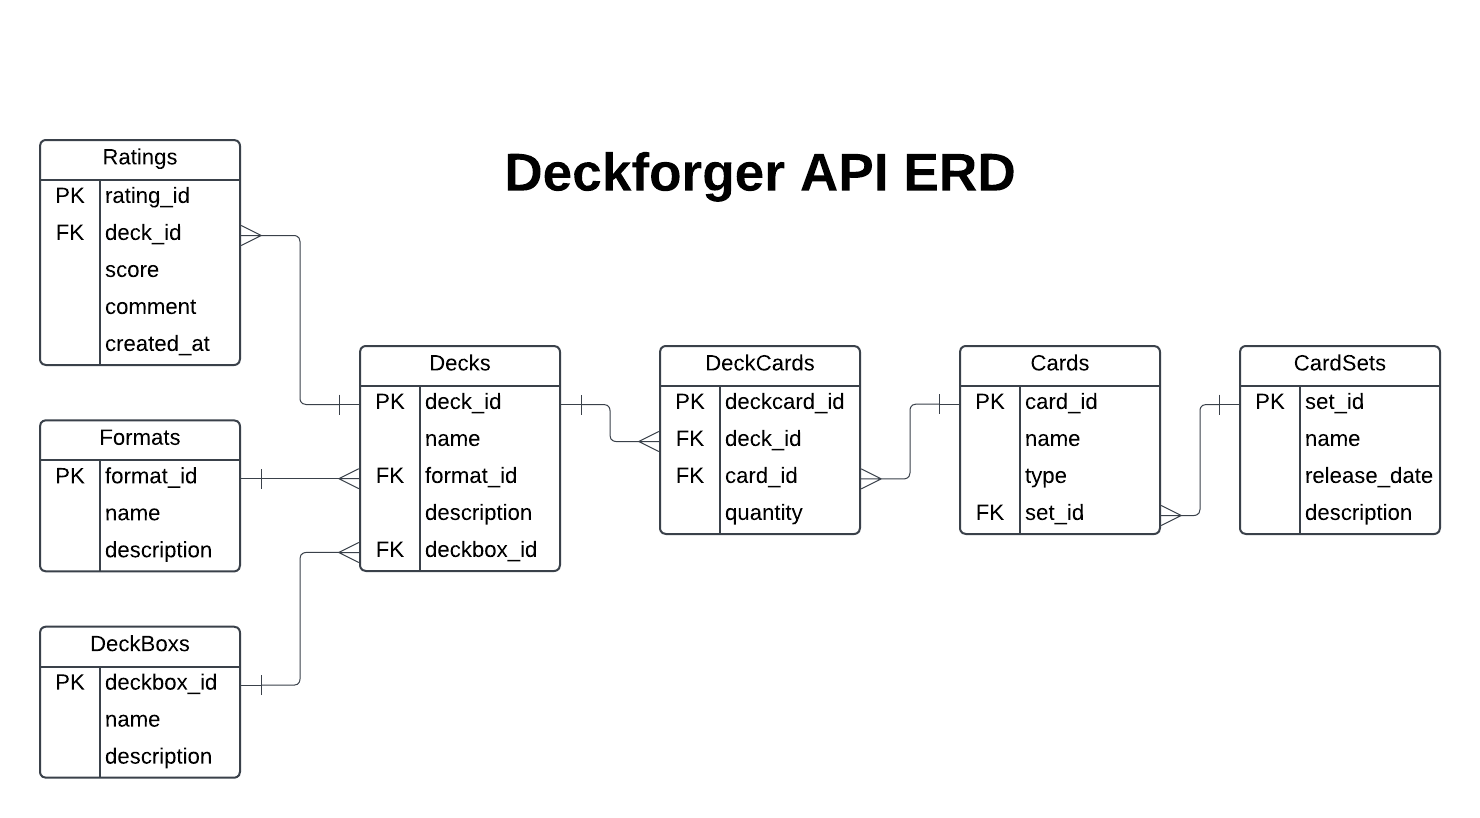
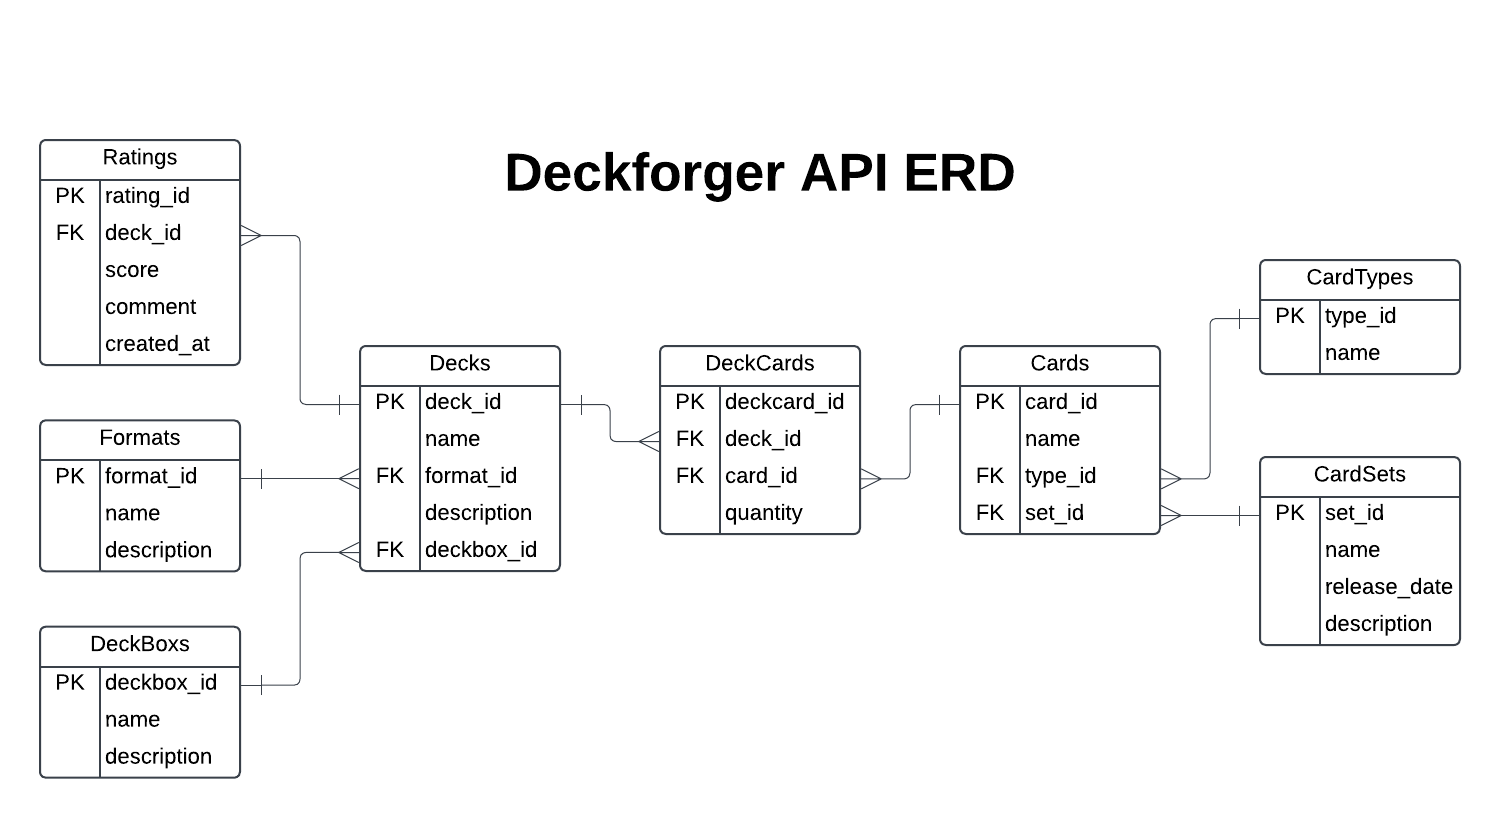
update commit

diff --git a/controllers/cardset_controller.py b/controllers/cardset_controller.py
@@ -8,10 +8,10 @@ from datetime import datetime
 # Local application imports
 from init import db
 from models.cardset import CardSet
-from schemas.cardset_schema import set_schema, sets_schema
+from schemas.cardset_schema import cardset_schema, cardsets_schema
 
 
-cardset_controller = Blueprint('set_controller', __name__)
+cardset_controller = Blueprint('cardsets', __name__, url_prefix='/cardsets')
 
 
 @cardset_controller.route('/', methods=['POST'])
@@ -44,7 +44,7 @@ def create_set():
     )
     db.session.add(new_set)
     db.session.commit()
-    return set_schema.jsonify(new_set), 201
+    return cardset_schema.jsonify(new_set), 201
 
 @validates('name')
 def validate_name(self, value):
@@ -61,33 +61,20 @@ def validate_release_date(self, value):
         raise ValidationError('Invalid date format. Use YYYY-MM-DD')
 
 @cardset_controller.route('/', methods=['GET'])
-def get_sets():
-    """
-    Retrieve all Pokemon card sets.
-    
-    Returns:
-        200: List of all sets
-    """
+def get_all_sets():
+    """Get all card sets"""
     stmt = db.select(CardSet)
     sets = db.session.scalars(stmt).all()
-    return sets_schema.jsonify(sets)
+    return cardsets_schema.dump(sets)
 
 @cardset_controller.route('/<int:set_id>', methods=['GET'])
 def get_set(set_id):
-    """
-    Retrieve a specific Pokemon card set by ID.
-    
-    Parameters:
-        set_id (int): ID of the set to retrieve
-        
-    Returns:
-        200: Set details
-        404: Set not found
-    """
-    set_ = db.session.get(CardSet, set_id)
-    if not set_:
-        return jsonify({'error': 'Set not found'}), 404
-    return set_schema.jsonify(set_)
+    """Get a specific set by ID"""
+    stmt = db.select(CardSet).filter_by(id=set_id)
+    set = db.session.scalar(stmt)
+    if not set:
+        return {'error': 'Set not found'}, 404
+    return cardset_schema.dump(set)
 
 @cardset_controller.route('/<int:set_id>', methods=['PUT'])
 def update_set(set_id):
@@ -116,7 +103,7 @@ def update_set(set_id):
     set_.release_date = data.get('release_date', set_.release_date)
     set_.description = data.get('description', set_.description)
     db.session.commit()
-    return set_schema.jsonify(set_)
+    return cardset_schema.jsonify(set_)
 
 @cardset_controller.route('/<int:set_id>', methods=['DELETE'])
 def delete_set(set_id):
@@ -138,24 +125,22 @@ def delete_set(set_id):
     db.session.commit()
     return jsonify({'message': 'Set deleted successfully!'})
 
-@cardset_controller.route('/search', methods=['GET'])
-def search_sets():
-    """
-    Search for Pokemon card sets using filters.
-    
-    Search Parameters:
-        name (str, optional): Set name to search for
-        release_date (date, optional): Filter by release date
-        
-    Returns:
-        200: List of matching sets
-    """
-    stmt = db.select(CardSet)
-    
-    if name := request.args.get('name'):
-        stmt = stmt.filter(CardSet.name.ilike(f'%{name}%'))
-    if release_date := request.args.get('release_date'):
-        stmt = stmt.filter(CardSet.release_date == release_date)
-        
+@cardset_controller.route('/search/<string:name>', methods=['GET'])
+def search_by_name(name):
+    """Search for sets by name"""
+    stmt = db.select(CardSet).filter(CardSet.name.ilike(f'%{name}%'))
     sets = db.session.scalars(stmt).all()
-    return sets_schema.jsonify(sets)
+    return cardsets_schema.dump(sets)
+
+@cardset_controller.route('/<int:set_id>/cards', methods=['GET'])
+def get_cards_in_set(set_id):
+    """Get all cards in a specific set"""
+    stmt = db.select(CardSet).filter_by(id=set_id)
+    set = db.session.scalar(stmt)
+    if not set:
+        return {'error': 'Set not found'}, 404
+    return jsonify([{
+        'id': card.id,
+        'name': card.name,
+        'type': card.type.name
+    } for card in set.cards])

diff --git a/models/cardset.py b/models/cardset.py
@@ -13,7 +13,7 @@ class CardSet(db.Model):
         name (str): Name of the set, must be unique
         release_date (date): Release date of the set
         description (text): Description of the set
-        cards (relationship): Relationship to associated cards
+        cards (relationship): Relationship to associated cards in the set
     """
     
     __tablename__ = 'sets'

diff --git a/schemas/card_schema.py b/schemas/card_schema.py
@@ -7,8 +7,8 @@ from schemas.cardtype_schema import CardTypeSchema
 from schemas.cardset_schema import SetSchema
 
 class CardSchema(ma.Schema):
-    type = fields.Nested(CardTypeSchema)
-    sets = fields.Nested(SetSchema)
+    type = ma.Nested(CardTypeSchema)
+    sets = ma.Nested(SetSchema)
     
     class Meta:
         fields = ('id', 'name', 'type', 'set_id', 'sets')

diff --git a/schemas/cardset_schema.py b/schemas/cardset_schema.py
@@ -30,5 +30,5 @@ class SetSchema(ma.SQLAlchemySchema):
     # Enhanced relationships
     cards = ma.Nested('CardSchema', many=True, exclude=('set_id',))
 
-set_schema = SetSchema()
-sets_schema = SetSchema(many=True)
+cardset_schema = SetSchema()
+cardsets_schema = SetSchema(many=True)

diff --git a/models/__init__.py b/models/__init__.py
@@ -9,12 +9,12 @@ from .format import Format
 from models.cardtype import CardType
 
 __all__ = [
-    'CardType',
     'Card',
     'Deck', 
     'DeckBox', 
     'DeckCard',
     'Rating', 
+    'CardType',
     'CardSet', 
     'Format'
 ]

diff --git a/readme.md b/readme.md
@@ -97,6 +97,22 @@ flask run/seed
 - PUT /api/formats/{format_id} - Update format
 - DELETE /api/formats/{format_id} - Delete format
 
+### Card Types
+
+- GET /api/cardtypes/ - List all card types
+- GET /api/cardtypes/{type_id} - Get specific card type
+- POST /api/cardtypes/ - Create new card type
+- PUT /api/cardtypes/{type_id} - Update card type
+- DELETE /api/cardtypes/{type_id} - Delete card type
+
+### Deck Ratings
+
+- POST /api/ratings/ - Create new rating
+- GET /api/ratings/ - List all ratings
+- GET /api/ratings/{rating_id} - Get specific rating
+- PUT /api/ratings/{rating_id} - Update rating
+- DELETE /api/ratings/{rating_id} - Delete rating
+
 ## Database Schema
 
 ![Pokemon TCG Deck Builder ERD](docs/ERD_Plan.png)

diff --git a/docs/docs/source/models.rst b/docs/docs/source/models.rst
@@ -15,7 +15,7 @@ Deck
         :undoc-members:
 
 DeckBox
-    -------
+-------
     .. automodule:: models.DeckBox
         :members:
         :undoc-members:
@@ -30,13 +30,15 @@ CardType
 --------
     .. automodule:: models.cardtype
         :members:
-        :show-inheritance:
+        :undoc-members:
+        :exclude-members: id, name, cards, query
 
 CardSet
 -------
     .. automodule:: models.CardSet
         :members:
         :undoc-members:
+        :exclude-members: id, name, query
 
 Format
 ------

diff --git a/docs/docs/source/controllers.rst b/docs/docs/source/controllers.rst
@@ -33,12 +33,14 @@ CardType Controller
 -------------------
    .. automodule:: controllers.cardtype_controller
       :members:
+      :undoc-members:
       :show-inheritance:
 
 CardSet Controller
 -------------------
    .. automodule:: controllers.cardset_controller
       :members:
+      :undoc-members:
       :show-inheritance:
 
 Format Controller

diff --git a/docs/docs/source/schemas.rst b/docs/docs/source/schemas.rst
@@ -33,6 +33,7 @@ CardType Schema
 ---------------
 .. automodule:: schemas.cardtype_schema
    :members:
+   :undoc-members:
    :show-inheritance:
 
 CardSet Schema
